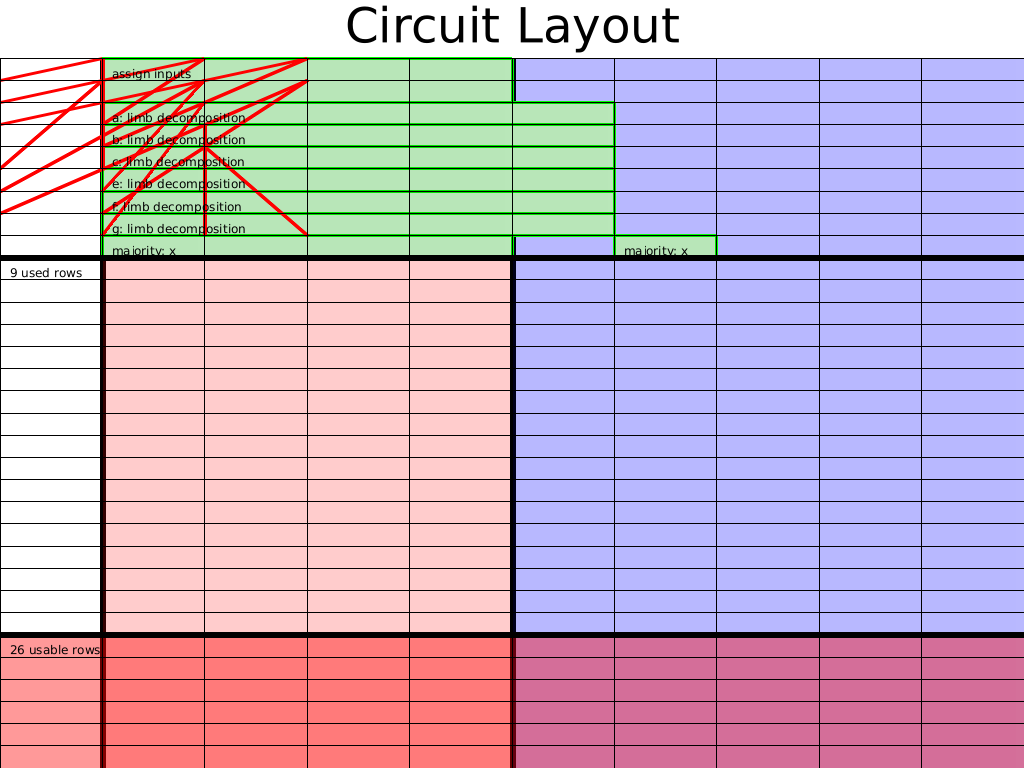
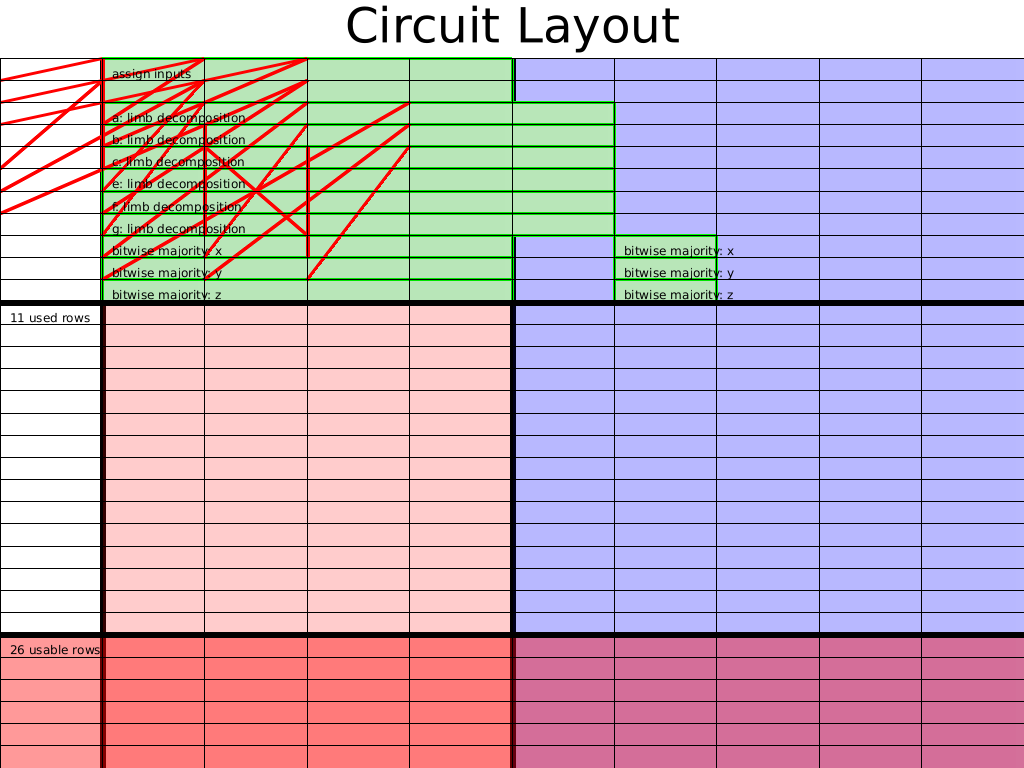
Full bitwise majority

diff --git a/sha/src/circuit/synthesis/bitwise_majority.rs b/sha/src/circuit/synthesis/bitwise_majority.rs
@@ -1,58 +1,140 @@
 use crate::circuit::config::ShaConfig;
-use crate::circuit::synthesis::LimbDecompositionOutput;
+use crate::circuit::synthesis::LimbDecomposition;
 use halo2_proofs::arithmetic::Field;
-use halo2_proofs::circuit::{Layouter, Value};
+use halo2_proofs::circuit::{AssignedCell, Cell, Layouter, Value};
 use halo2_proofs::halo2curves::pairing::MultiMillerLoop;
-use halo2_proofs::plonk::Error;
+use halo2_proofs::plonk::{Assigned, Error};
 
 pub struct BitwiseMajorityInput<'assign, 'limb, F: Field> {
     pub row_offset: usize,
-    pub a_limbs: &'limb LimbDecompositionOutput<'assign, F>,
-    pub b_limbs: &'limb LimbDecompositionOutput<'assign, F>,
-    pub c_limbs: &'limb LimbDecompositionOutput<'assign, F>,
+    pub a_limbs: &'limb LimbDecomposition<'assign, F>,
+    pub b_limbs: &'limb LimbDecomposition<'assign, F>,
+    pub c_limbs: &'limb LimbDecomposition<'assign, F>,
 }
 
-pub type BitwiseMajorityOutput<'assign, F> = LimbDecompositionOutput<'assign, F>;
+pub type BitwiseMajorityOutput<'assign, F> = LimbDecomposition<'assign, F>;
 
 pub fn bitwise_majority<'assign, 'limb, E: MultiMillerLoop>(
     layouter: &mut impl Layouter<E::Scalar, E = E>,
     config: &ShaConfig,
     input: BitwiseMajorityInput<'assign, 'limb, E::Scalar>,
 ) -> Result<BitwiseMajorityOutput<'assign, E::Scalar>, Error> {
-    let (x_cell, x_value) = layouter.assign_region(
-        || "majority: x",
-        |mut region| {
-            config
-                .majority_selector()
-                .enable(&mut region, input.row_offset)?;
-
-            let w0 =
-                region.assign_advice(config.advices[0], input.row_offset, input.a_limbs.x_value)?;
-            let w1 =
-                region.assign_advice(config.advices[1], input.row_offset, input.b_limbs.x_value)?;
-            let w2 =
-                region.assign_advice(config.advices[2], input.row_offset, input.c_limbs.x_value)?;
-
-            region.constrain_equal(w0.cell(), input.a_limbs.x_cell.cell());
-            region.constrain_equal(w1.cell(), input.b_limbs.x_cell.cell());
-            region.constrain_equal(w2.cell(), input.c_limbs.x_cell.cell());
-
-            let w_maj = region.assign_advice(
-                config.advices[3],
-                input.row_offset,
-                Value::known(E::Scalar::default()),
-            )?;
-
-            Ok((w_maj, Value::known(E::Scalar::default())))
-        },
+    let (x_cell, x_value) = bitwise_majority_row(
+        layouter,
+        config,
+        input.row_offset,
+        "bitwise majority: x",
+        input.x_values(),
+        input.x_cells(),
+    )?;
+    let (y_cell, y_value) = bitwise_majority_row(
+        layouter,
+        config,
+        input.row_offset + 1,
+        "bitwise majority: y",
+        input.y_values(),
+        input.y_cells(),
+    )?;
+    let (z_cell, z_value) = bitwise_majority_row(
+        layouter,
+        config,
+        input.row_offset + 2,
+        "bitwise majority: z",
+        input.z_values(),
+        input.z_cells(),
     )?;
 
-    Ok(LimbDecompositionOutput {
-        x_cell: x_cell.clone(),
-        y_cell: x_cell.clone(),
-        z_cell: x_cell,
+    Ok(LimbDecomposition {
+        x_cell,
+        y_cell,
+        z_cell,
         x_value,
-        y_value: x_value,
-        z_value: x_value,
+        y_value,
+        z_value,
     })
+}
+
+fn bitwise_majority_row<'assign, 'limb, E: MultiMillerLoop>(
+    layouter: &mut impl Layouter<E::Scalar, E = E>,
+    config: &ShaConfig,
+    row_offset: usize,
+    region_name: &str,
+    values: [Value<E::Scalar>; 3],
+    cells: [&'limb Cell; 3],
+) -> Result<
+    (
+        AssignedCell<&'assign Assigned<E::Scalar>, E::Scalar>,
+        Value<E::Scalar>,
+    ),
+    Error,
+> {
+    layouter.assign_region(
+        || region_name,
+        |mut region| {
+            config.majority_selector().enable(&mut region, row_offset)?;
+
+            let w0 = region.assign_advice(config.advices[0], row_offset, values[0])?;
+            let w1 = region.assign_advice(config.advices[1], row_offset, values[1])?;
+            let w2 = region.assign_advice(config.advices[2], row_offset, values[2])?;
+
+            region.constrain_equal(w0.cell(), cells[0]);
+            region.constrain_equal(w1.cell(), cells[1]);
+            region.constrain_equal(w2.cell(), cells[2]);
+
+            let value = Value::known(E::Scalar::default()); // todo compute true majority
+            let w_maj = region.assign_advice(config.advices[3], row_offset, value)?;
+
+            Ok((w_maj, value))
+        },
+    )
+}
+
+impl<'assign, 'limb, F: Field> BitwiseMajorityInput<'assign, 'limb, F> {
+    fn x_values(&self) -> [Value<F>; 3] {
+        [
+            self.a_limbs.x_value,
+            self.b_limbs.x_value,
+            self.c_limbs.x_value,
+        ]
+    }
+
+    fn x_cells(&self) -> [&'limb Cell; 3] {
+        [
+            self.a_limbs.x_cell.cell(),
+            self.b_limbs.x_cell.cell(),
+            self.c_limbs.x_cell.cell(),
+        ]
+    }
+
+    fn y_values(&self) -> [Value<F>; 3] {
+        [
+            self.a_limbs.y_value,
+            self.b_limbs.y_value,
+            self.c_limbs.y_value,
+        ]
+    }
+
+    fn y_cells(&self) -> [&'limb Cell; 3] {
+        [
+            self.a_limbs.y_cell.cell(),
+            self.b_limbs.y_cell.cell(),
+            self.c_limbs.y_cell.cell(),
+        ]
+    }
+
+    fn z_values(&self) -> [Value<F>; 3] {
+        [
+            self.a_limbs.z_value,
+            self.b_limbs.z_value,
+            self.c_limbs.z_value,
+        ]
+    }
+
+    fn z_cells(&self) -> [&'limb Cell; 3] {
+        [
+            self.a_limbs.z_cell.cell(),
+            self.b_limbs.z_cell.cell(),
+            self.c_limbs.z_cell.cell(),
+        ]
+    }
 }

diff --git a/sha/src/circuit/synthesis/limb_decomposition.rs b/sha/src/circuit/synthesis/limb_decomposition.rs
@@ -4,6 +4,7 @@ use halo2_proofs::arithmetic::{Field, FieldExt};
 use halo2_proofs::circuit::{AssignedCell, Cell, Layouter, Value};
 use halo2_proofs::halo2curves::pairing::MultiMillerLoop;
 use halo2_proofs::plonk::{Assigned, Error};
+use crate::circuit::synthesis::LimbDecomposition;
 
 pub struct LimbDecompositionInput<F: Field> {
     /// The row in which the decomposition gate happening.
@@ -16,24 +17,11 @@ pub struct LimbDecompositionInput<F: Field> {
     pub name: &'static str,
 }
 
-pub struct LimbDecompositionOutput<'assign, F: Field> {
-    /// The cell containing the first limb.
-    pub x_cell: AssignedCell<&'assign Assigned<F>, F>,
-    /// The cell containing the second limb.
-    pub y_cell: AssignedCell<&'assign Assigned<F>, F>,
-    /// The cell containing the third limb.
-    pub z_cell: AssignedCell<&'assign Assigned<F>, F>,
-
-    pub x_value: Value<F>,
-    pub y_value: Value<F>,
-    pub z_value: Value<F>,
-}
-
 pub fn decompose<'assign, E: MultiMillerLoop, L: Limbs>(
     layouter: &mut impl Layouter<E::Scalar, E = E>,
     config: &ShaConfig,
     input: LimbDecompositionInput<E::Scalar>,
-) -> Result<LimbDecompositionOutput<'assign, E::Scalar>, Error> {
+) -> Result<LimbDecomposition<'assign, E::Scalar>, Error> {
     layouter.assign_region(
         || format!("{}: limb decomposition", input.name),
         |mut region| {
@@ -67,7 +55,7 @@ pub fn decompose<'assign, E: MultiMillerLoop, L: Limbs>(
             let y_cell = region.assign_advice(config.advices[2], input.row, y)?;
             let z_cell = region.assign_advice(config.advices[3], input.row, z)?;
 
-            Ok(LimbDecompositionOutput {
+            Ok(LimbDecomposition {
                 x_cell,
                 y_cell,
                 z_cell,

diff --git a/sha/src/circuit/synthesis.rs b/sha/src/circuit/synthesis.rs
@@ -1,7 +1,20 @@
-mod limb_decomposition;
-mod initial_assignment;
 mod bitwise_majority;
+mod initial_assignment;
+mod limb_decomposition;
 
-pub use limb_decomposition::*;
-pub use initial_assignment::*;
 pub use bitwise_majority::*;
+use halo2_proofs::arithmetic::Field;
+use halo2_proofs::circuit::{AssignedCell, Value};
+use halo2_proofs::plonk::Assigned;
+pub use initial_assignment::*;
+pub use limb_decomposition::*;
+
+pub struct LimbDecomposition<'assign, F: Field> {
+    pub x_cell: AssignedCell<&'assign Assigned<F>, F>,
+    pub y_cell: AssignedCell<&'assign Assigned<F>, F>,
+    pub z_cell: AssignedCell<&'assign Assigned<F>, F>,
+
+    pub x_value: Value<F>,
+    pub y_value: Value<F>,
+    pub z_value: Value<F>,
+}
